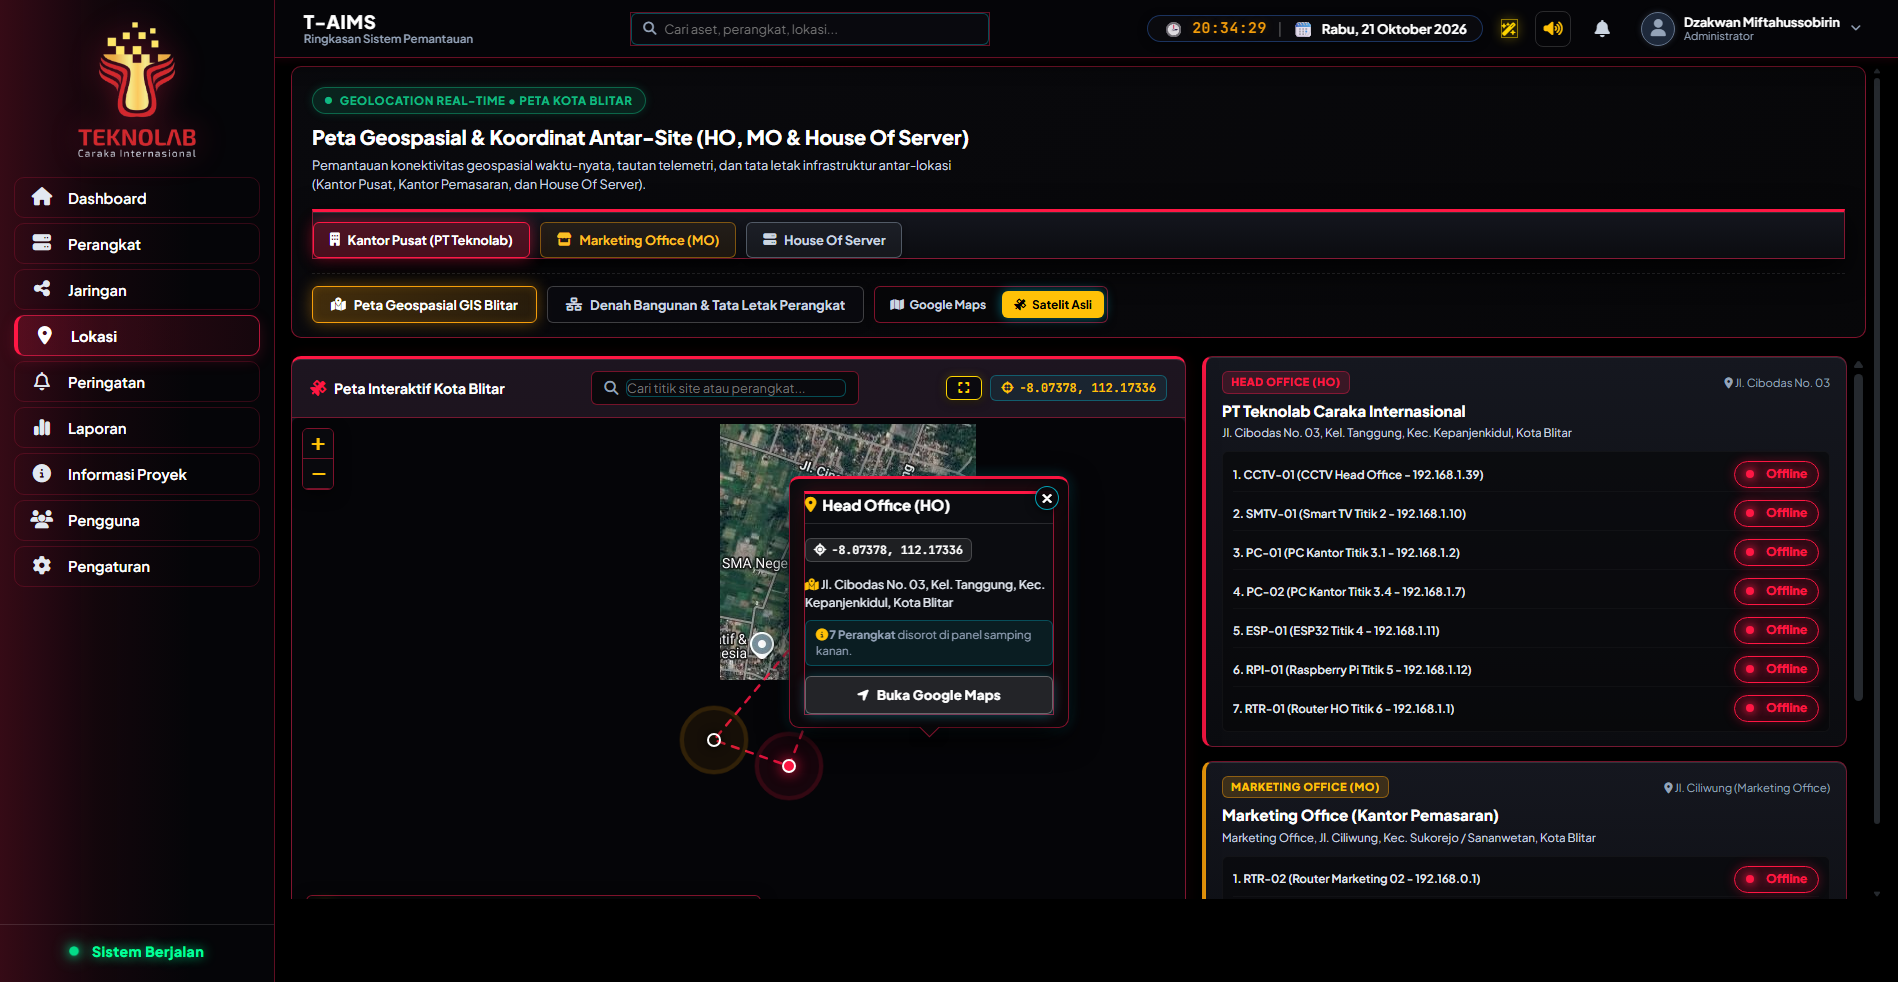
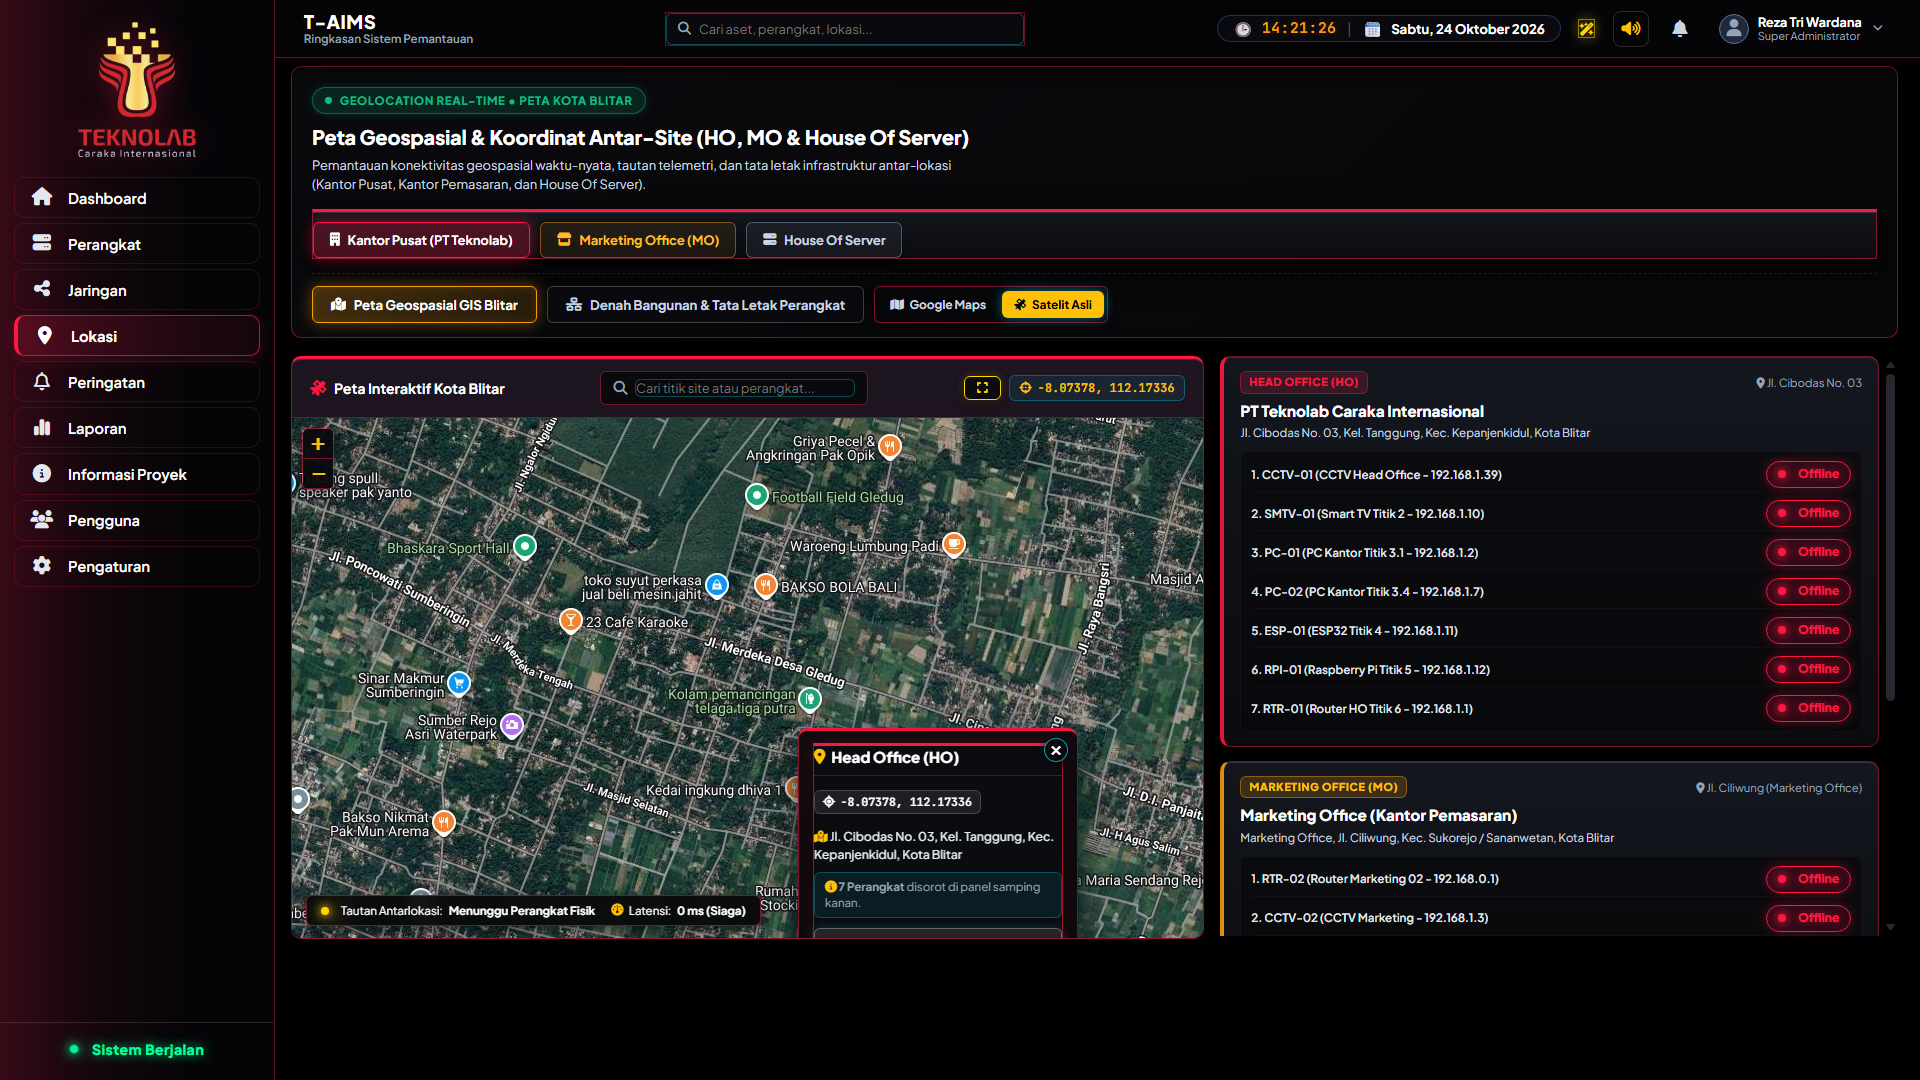
fix(qa-gis): recapture full-resolution location GIS map screenshot and standardize marketing office enterprise naming

diff --git a/frontend/index.html b/frontend/index.html
@@ -1,8 +1,9 @@
 <!DOCTYPE html>
 
-<html lang="id">
+<html lang="id" translate="no">
 
 <head>
+    <meta name="google" content="notranslate">
 
     <meta charset="UTF-8">
 
@@ -2151,7 +2152,7 @@
 
                             <button type="button" class="btn-site-quick btn-quick-mo" id="btn-zoom-mo" onclick="zoomToSite('mo')">
 
-                                <i class="fa-solid fa-store"></i> Kantor Pemasaran (Kost Kiki)
+                                <i class="fa-solid fa-store"></i> Marketing Office (MO)
 
                             </button>
 
@@ -2371,13 +2372,13 @@
 
                                         <span class="sdc-badge badge-purple">MARKETING OFFICE (MO)</span>
 
-                                        <span class="sdc-addr-tag"><i class="fa-solid fa-location-dot"></i> Jl. Ciliwung (Kost Kiki)</span>
+                                        <span class="sdc-addr-tag"><i class="fa-solid fa-location-dot"></i> Jl. Ciliwung (Marketing Office)</span>
 
                                     </div>
 
-                                    <h3 class="sdc-title">Rumah Kost Kiki (Kantor Pemasaran)</h3>
+                                    <h3 class="sdc-title">Marketing Office (Kantor Pemasaran)</h3>
 
-                                    <p class="sdc-full-addr">Rumah Kost Kiki, Jl. Ciliwung, Kec. Sukorejo / Sananwetan, Kota Blitar</p>
+                                    <p class="sdc-full-addr">Marketing Office, Jl. Ciliwung, Kec. Sukorejo / Sananwetan, Kota Blitar</p>
 
                                     
 
@@ -3583,7 +3584,7 @@
 
                                 <div class="sla-bar-item">
 
-                                    <div class="sbi-label"><span>Kantor Pemasaran (Kost Kiki)</span><strong class="text-yellow">98.7% Uptime</strong></div>
+                                    <div class="sbi-label"><span>Marketing Office (MO)</span><strong class="text-yellow">98.7% Uptime</strong></div>
 
                                     <div class="sbi-track"><div class="sbi-prog yellow" style="width: 98.7%;"></div></div>
 

diff --git a/frontend/app.js b/frontend/app.js
@@ -4477,6 +4477,17 @@ window.addEventListener('DOMContentLoaded', () => {
         }
     }
 
+    const urlParams = new URLSearchParams(window.location.search);
+    if (!activeUser && urlParams.get('autologin')) {
+        const roleParam = urlParams.get('role') || 'superadmin';
+        activeUser = {
+            username: 'rezatri',
+            name: 'Reza Tri Wardana',
+            role: roleParam,
+            title: roleParam === 'superadmin' ? 'Super Administrator' : (roleParam === 'guest' ? 'User' : 'Administrator')
+        };
+    }
+
     if (activeUser) {
         // User telah login sebelumnya: pulihkan sesi akun aktif tanpa reset ke tamu/user
         loginSuccess(activeUser, true);

diff --git a/frontend/assets/js/app.js b/frontend/assets/js/app.js
@@ -4477,6 +4477,17 @@ window.addEventListener('DOMContentLoaded', () => {
         }
     }
 
+    const urlParams = new URLSearchParams(window.location.search);
+    if (!activeUser && urlParams.get('autologin')) {
+        const roleParam = urlParams.get('role') || 'superadmin';
+        activeUser = {
+            username: 'rezatri',
+            name: 'Reza Tri Wardana',
+            role: roleParam,
+            title: roleParam === 'superadmin' ? 'Super Administrator' : (roleParam === 'guest' ? 'User' : 'Administrator')
+        };
+    }
+
     if (activeUser) {
         // User telah login sebelumnya: pulihkan sesi akun aktif tanpa reset ke tamu/user
         loginSuccess(activeUser, true);
